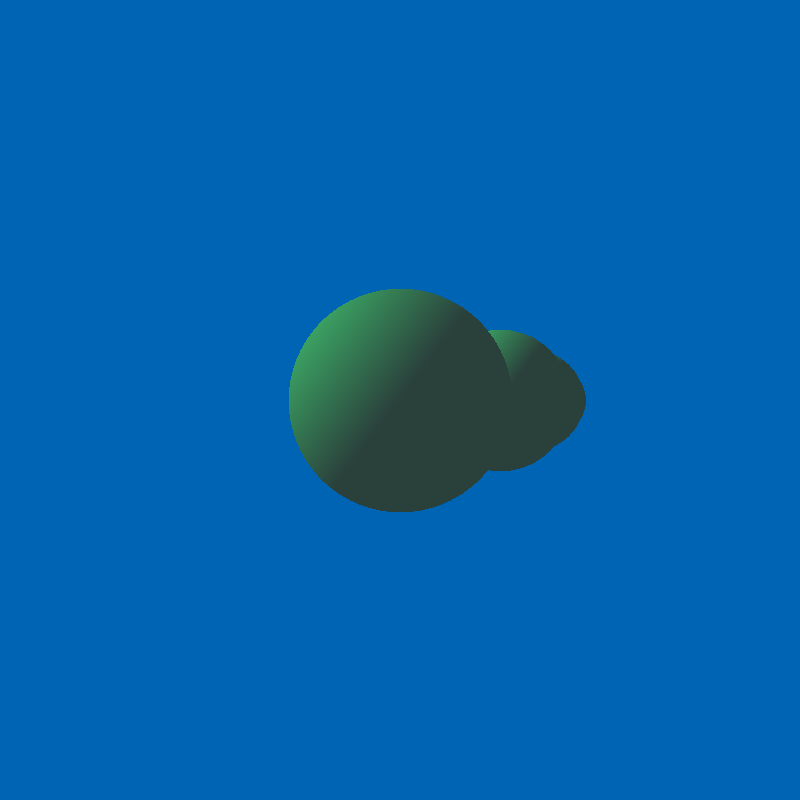
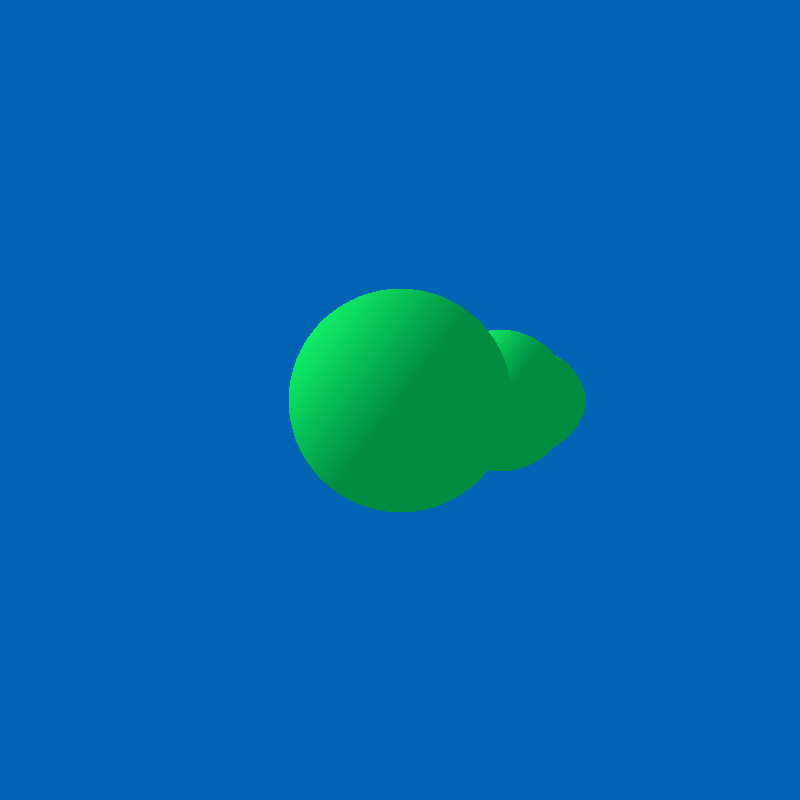
changed normal equation I think

Changed region(s): [[0.3438, 0.3438, 0.75, 0.6562]]

diff --git a/raytracer.go b/raytracer.go
@@ -150,7 +150,9 @@ func withinRadius(sphere Sphere, x float64, y float64, z float64) bool {
                     math.Pow(float64(sphere.center.Y - y), 2) +
                     math.Pow(float64(sphere.center.Z - z), 2) 
 
-    if float64(distToCenter - math.Pow(float64(sphere.radius), 2)) <= 0 {
+    intersectionPoint := float64(distToCenter - math.Pow(float64(sphere.radius), 2))
+
+    if intersectionPoint <= 0 {
         return true
     }
     return false
@@ -162,12 +164,11 @@ func calculateDiffuseColor(normal Point) Point {
     if dotProduct < 0 {
         dotProduct = 0
     }
-    //fmt.Println(scale(tempDiffuse, dotProduct))
     return pointMult(scale(tempDiffuse, dotProduct), tempColor)
 }
 
 func calculateAmbientColor() Point {
-    tempAmbient := pointNormalize(Point{X: 200, Y: 100, Z: 70})
+    tempAmbient := pointNormalize(Point{X: 0, Y: 200, Z: 70})
     return pointMult(tempColor, tempAmbient) 
 }
 
@@ -193,6 +194,10 @@ func shootRay(ray func(t float64) Point) (float64, Point) {
     return -1, Point{}
 }
 
+//func (sphere Sphere) hit(ray func(t float64) Point) (float64, Point) {
+//    
+//}
+
 func renderScene() {
     doneChannel := make(chan bool)
     pixelChannel := make(chan Point)
@@ -202,6 +207,7 @@ func renderScene() {
         pixel := <- pixelChannel
         ray := computeRay(pixel)
         rayHit, color := shootRay(ray)
+        //rayHit, color := sphere.hit(ray)
         color = scale(color, 255)
         if rayHit != -1 {
             if color.X > 255{
